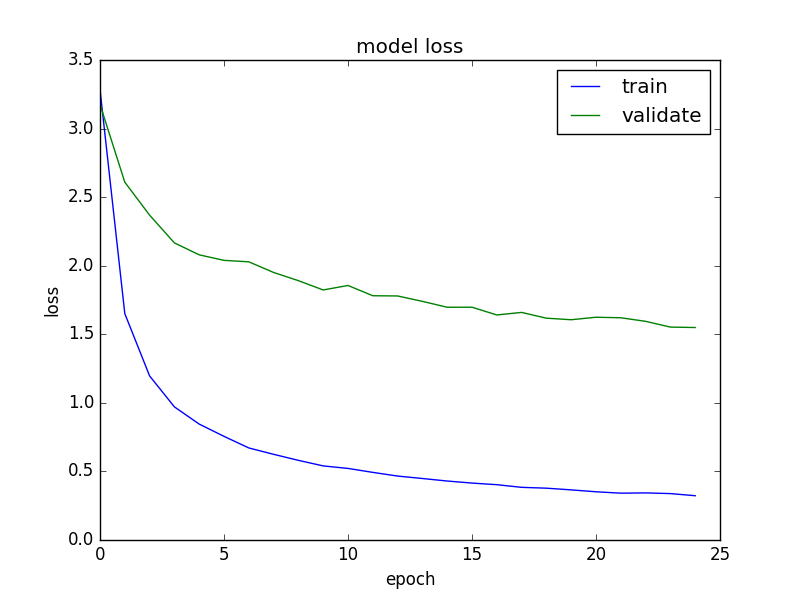
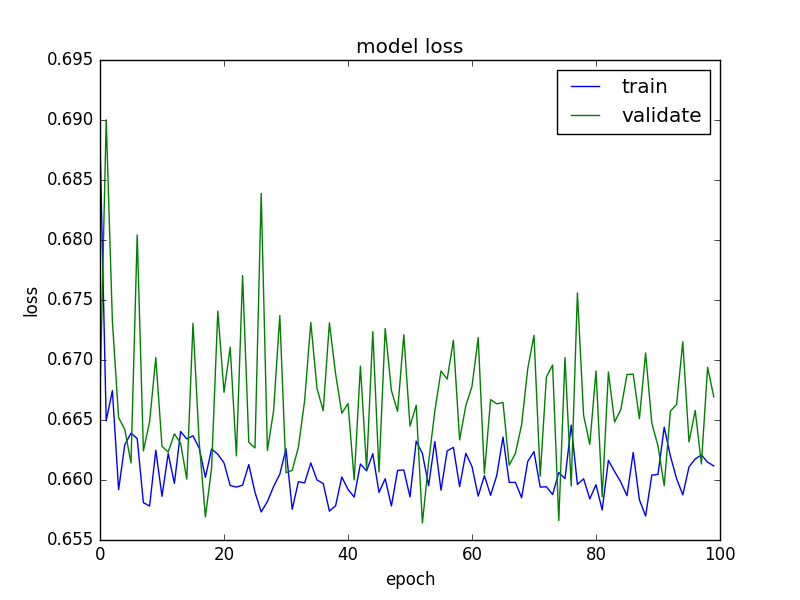
test

diff --git a/kaggle/quora/train.py b/kaggle/quora/train.py
@@ -20,18 +20,18 @@ max_sent_len = 10
 wordvec_dim = 200
 gru_output_dim = 50
 output_dim = 2
-train_size = 100
+train_size = 500
 batch_size = 40
-num_epoch = 60
+num_epoch = 100
 def batch_gen_2d(batch_size, start_index, end_index):
     while True:
         i = randint(start_index, end_index)
         #i = randint(1, 1000)
 	#i = 1
-	print '    ',i,' iiiiiiiiiii2'
+	#print '    ',i,' iiiiiiiiiii2'
         y_batch = np.array(map(lambda x: np.array([1,0] if x==1 else [0,1]),y[i:i+batch_size]))
-        x_batch2 = map(lambda x: np.array(x['vec'][:10]), list(question2_collection.find({'_id': {'$gte': i, '$lt': i+batch_size}})))	
-        x_batch1 = map(lambda x: np.array(x['vec'][:10]), list(question1_collection.find({'_id': {'$gte': i, '$lt': i+batch_size}})))	
+        x_batch2 = map(lambda x: np.array(x['vec'][:max_sent_len]), list(question2_collection.find({'_id': {'$gte': i, '$lt': i+batch_size}})))	
+        x_batch1 = map(lambda x: np.array(x['vec'][:max_sent_len]), list(question1_collection.find({'_id': {'$gte': i, '$lt': i+batch_size}})))	
         #x_batch = map(lambda x: np.reshape(np.array(x), (input_shape[0], x_train.shape[1])),x_batch) # 10 is nu of recurrent layers
         ############ To normalize the inputs ############3 
         x_batch1 = map(lambda x: map(lambda xx: abs(xx)-abs(x.mean()), x), x_batch1)
@@ -48,7 +48,7 @@ model = ma.dense_test(max_sent_len, wordvec_dim, gru_output_dim, output_dim)
 print 'fitting model ...'
 
 #fit = model.fit_generator(generator=batch_gen_2d(500,1,10000), nb_epoch=30, samples_per_epoch=train_size)
-history = model.fit_generator(generator=batch_gen_2d(batch_size,4000,5000), nb_epoch = num_epoch, validation_data = batch_gen_2d(batch_size,5000,5010), nb_val_samples = 100, samples_per_epoch=train_size)
+history = model.fit_generator(generator=batch_gen_2d(batch_size,1,1000), nb_epoch = num_epoch, validation_data = batch_gen_2d(batch_size,11000,12010), nb_val_samples = 100, samples_per_epoch=train_size)
 
 plot_model(model, to_file='model.png')
 

diff --git a/kaggle/quora/utils.py b/kaggle/quora/utils.py
@@ -130,15 +130,15 @@ if __name__ == '__main__':
     max_sent_len = 10
     gru_output_dim = 50
     output_dim = 2
-    if sys.argv[-1] == 'create_vocab':
+    if sys.argv[-1] == 'create_vocab': ### Create vocab of both train and test data
         d1= create_vocab('../quora_data/train.csv')
         d2= create_vocab('../quora_data/test.csv')
         d = list(set(d1+d2))
         json.dump(d, open('../quora_data/vocab.json','w'))
-    if sys.argv[-1] == 'index_vectors':
+    if sys.argv[-1] == 'index_vectors': ### Write word vectors into mongodb
         write_vectors('../quora_data/quora-vector.bin', '../quora_data/vocab.json', client)
 
-    if sys.argv[-1]=='index_train':
+    if sys.argv[-1]=='index_train':### Create training data and index in mongodb
         import pandas as pd
         from pymongo import MongoClient
         import numpy as np
@@ -158,7 +158,7 @@ if __name__ == '__main__':
 
         index_training_data()
 
-    if sys.argv[-1] == 'predict':
+    if sys.argv[-1] == 'predict': ### Sample prediction
 	import model_arch as ma
 	q1,q2 = sys.argv[-3], sys.argv[-2]
 	model = ma.dense_test(max_sent_len, wordvec_dim, gru_output_dim, output_dim)

diff --git a/kaggle/quora/tfidf.py b/kaggle/quora/tfidf.py
@@ -1,0 +1,10 @@
+import pandas as pd
+import numpy as np
+from collections import Counter
+
+class tfidf(object):
+    def __init__(self, corpus_file_path):
+	self.corpus_dict = corpus_file_path
+	self.corpus_dict = open(corpus_file_path).read().lower().split('')
+
+    def vec(self, sent):
